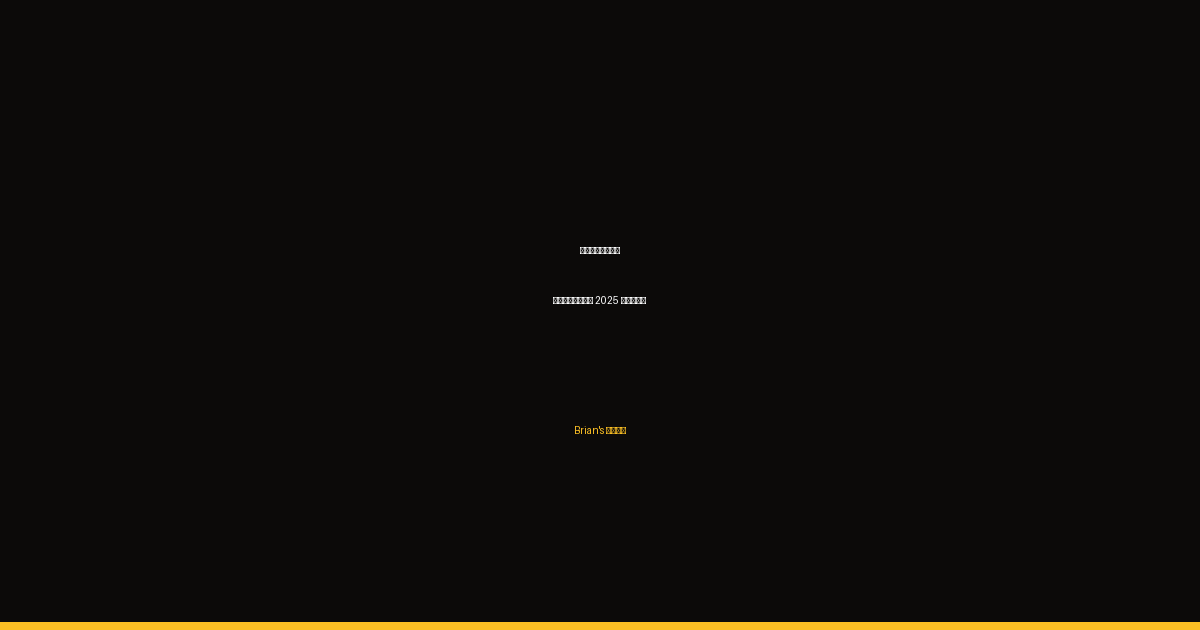
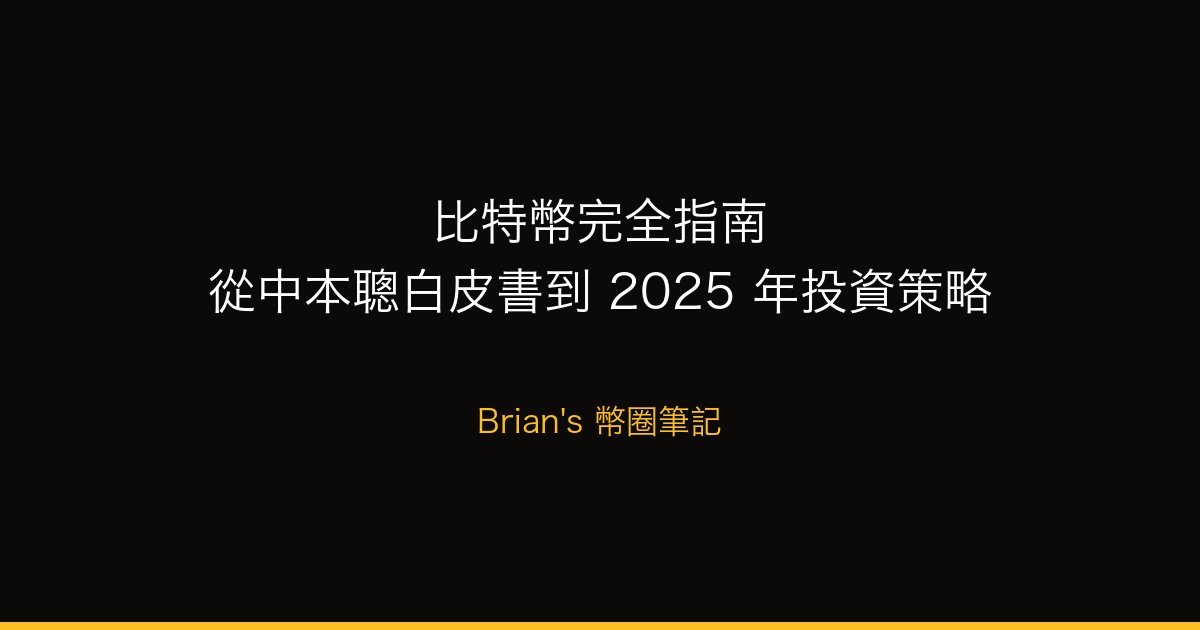
fix: 修正比特幣 OG 圖 PNG 中文字體顯示問題
- 重新創建比特幣 OG 圖，修正中文字體渲染問題
- 使用 Hiragino Sans GB 字體確保中文正確顯示
- 調整字體大小：標題 48px，副標題 32px
- 優化文字定位，確保居中對齊
- 新增改良版 Python 腳本支援多種中文字體

修正前：中文顯示為方塊 (□□□□□)
修正後：中文正常顯示，排版美觀

🤖 Generated with [Claude Code](https://claude.ai/code)

Changed region(s): [[0.1542, 0.3016, 0.8325, 0.5127], [0.4008, 0.6333, 0.6167, 0.6937]]

diff --git a/create_better_og_png.py b/create_better_og_png.py
@@ -1,0 +1,56 @@
+from PIL import Image, ImageDraw, ImageFont
+import os
+
+def create_bitcoin_og_image():
+    # 創建圖片
+    img = Image.new('RGB', (1200, 630), color='#0c0a09')
+    draw = ImageDraw.Draw(img)
+    
+    # 嘗試多種中文字體路徑
+    font_paths = [
+        '/System/Library/Fonts/PingFang.ttc',  # macOS 預設中文字體
+        '/System/Library/Fonts/Hiragino Sans GB.ttc',  # 另一個 macOS 中文字體
+        '/System/Library/Fonts/Arial Unicode MS.ttf',  # 支援中文的 Arial
+        '/System/Library/Fonts/STHeiti Light.ttc',  # 黑體
+    ]
+    
+    title_font = None
+    subtitle_font = None
+    
+    # 嘗試載入中文字體
+    for font_path in font_paths:
+        try:
+            if os.path.exists(font_path):
+                title_font = ImageFont.truetype(font_path, 48)  # 增大字體
+                subtitle_font = ImageFont.truetype(font_path, 32)  # 增大字體
+                print(f"使用字體: {font_path}")
+                break
+        except Exception as e:
+            print(f"無法載入字體 {font_path}: {e}")
+            continue
+    
+    # 如果找不到合適字體，使用預設字體
+    if title_font is None:
+        title_font = ImageFont.load_default()
+        subtitle_font = ImageFont.load_default()
+        print("使用預設字體")
+    
+    # 繪製標題 - 調整位置更居中
+    draw.text((600, 220), '比特幣完全指南', font=title_font, fill='white', anchor='mm')
+    draw.text((600, 290), '從中本聰白皮書到 2025 年投資策略', font=title_font, fill='white', anchor='mm')
+    
+    # 繪製副標題
+    draw.text((600, 420), "Brian's 幣圈筆記", font=subtitle_font, fill='#fbbf24', anchor='mm')
+    
+    # 繪製底部裝飾線
+    draw.rectangle([(0, 622), (1200, 630)], fill='#fbbf24')
+    
+    # 儲存圖片
+    output_path = '/Users/brian/Documents/AI/brian-jhangs-edge/public/images/og/crypto/bitcoin-complete-guide.png'
+    img.save(output_path, 'PNG', quality=95)
+    print(f'已創建: bitcoin-complete-guide.png')
+    return output_path
+
+if __name__ == "__main__":
+    create_bitcoin_og_image()
+    print('比特幣 OG 圖創建完成！')
